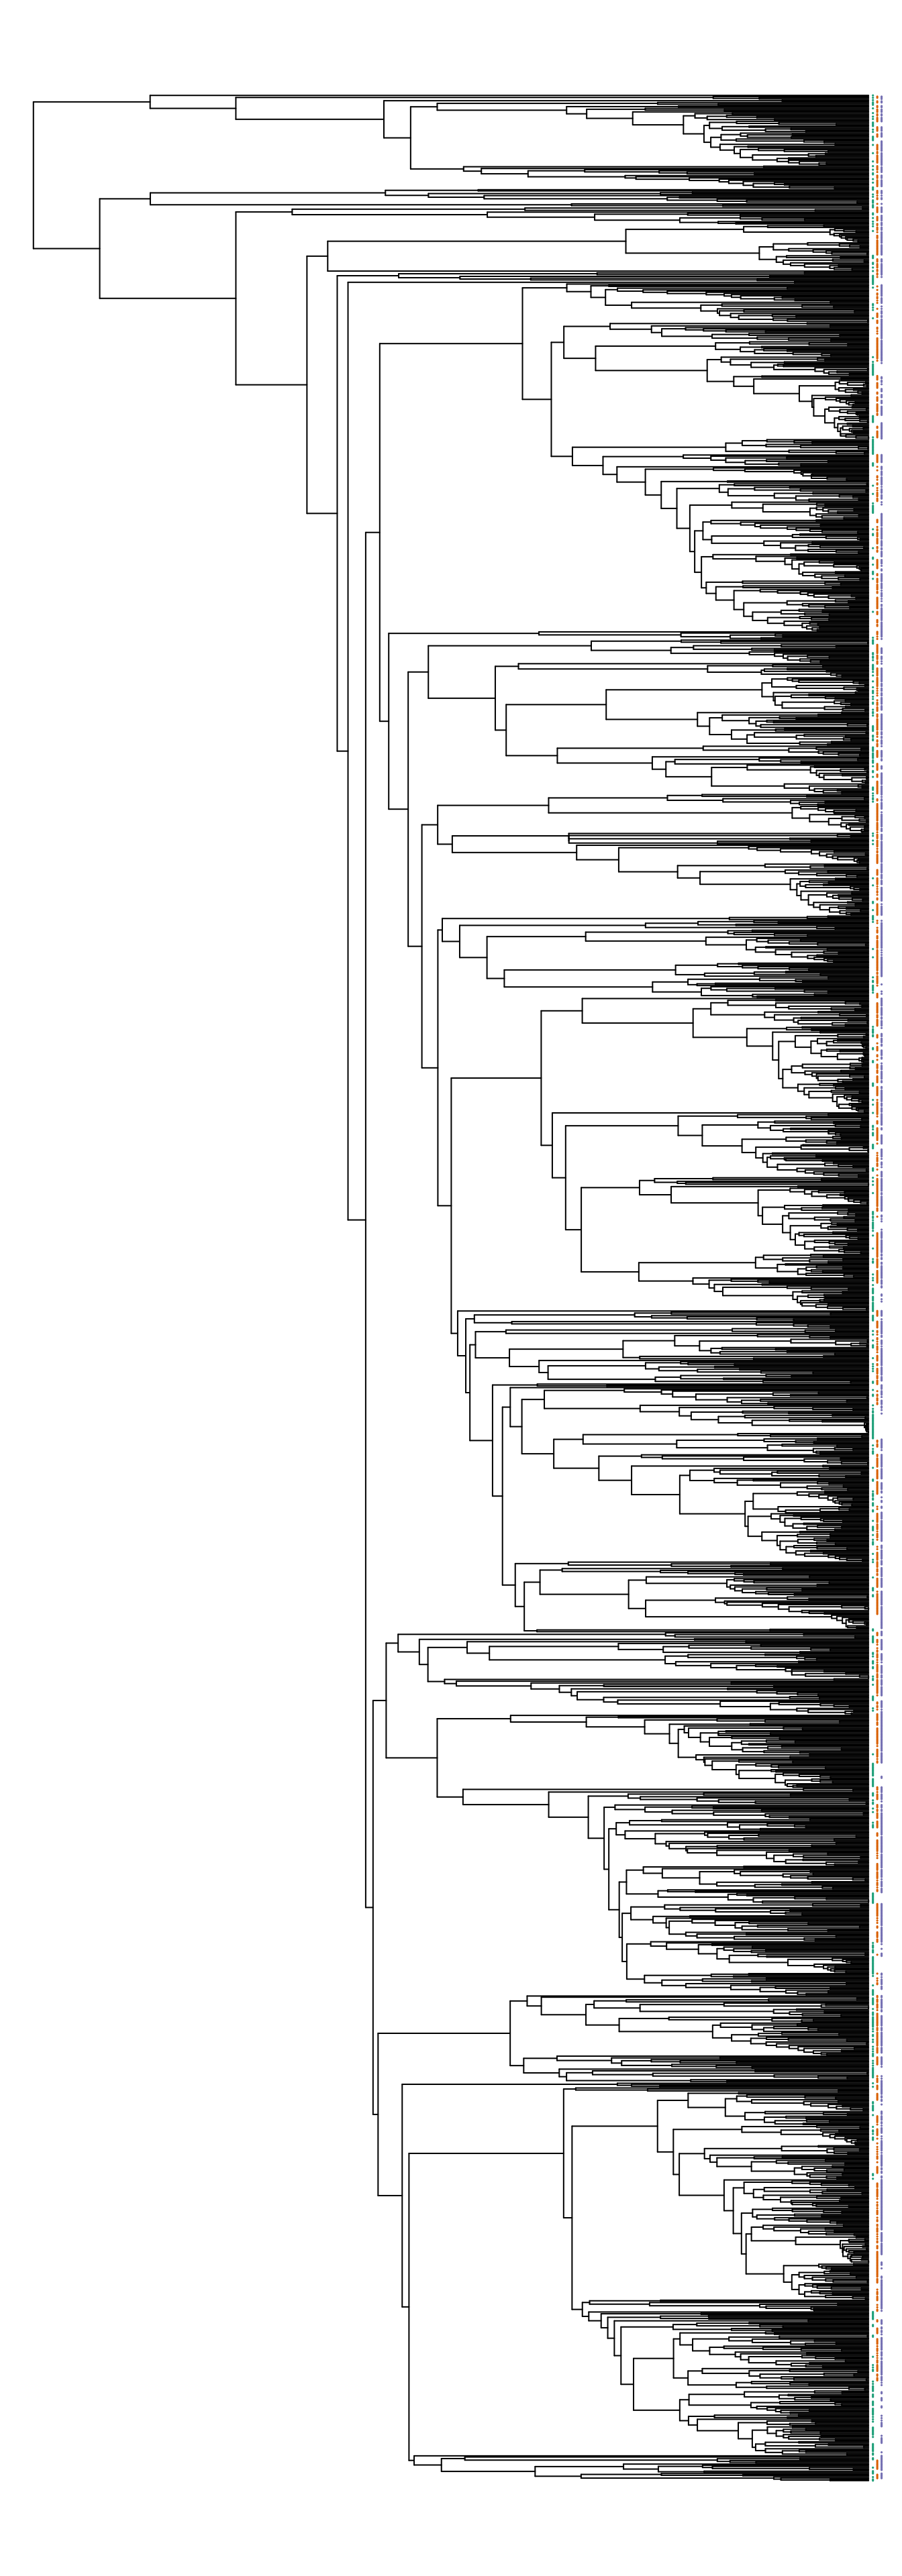
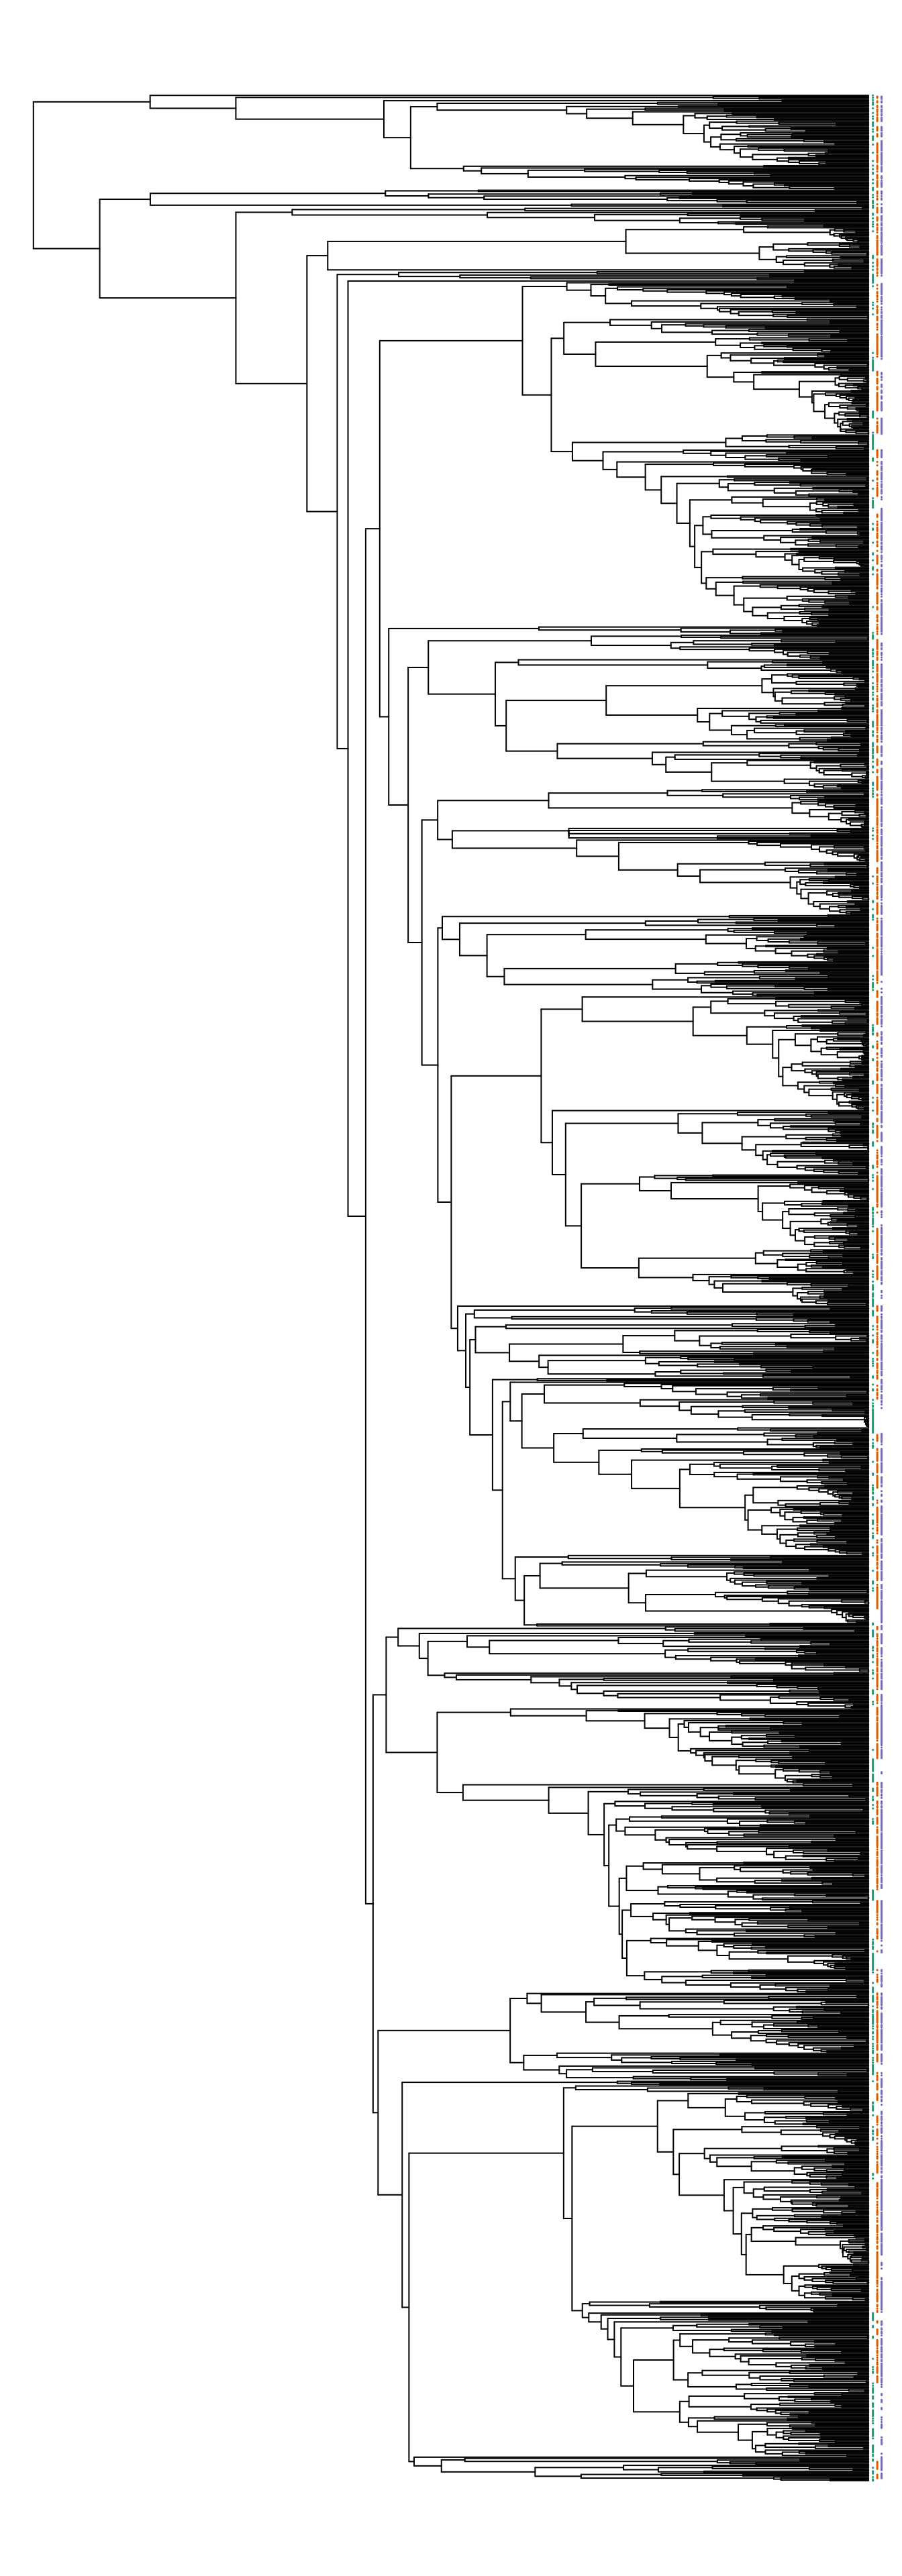
Built site for fishtree@0.3.4.9000: 18fe101

Changed region(s): [[0.3438, 0.0312, 1.0, 0.9688]]

diff --git a/articles/comparative-analysis.html b/articles/comparative-analysis.html
@@ -89,7 +89,7 @@ rather than the family in the 2013 study.</p>
 <span><span class="va">tree</span> <span class="op">&lt;-</span> <span class="fu"><a href="../reference/fishtree_phylogeny.html">fishtree_phylogeny</a></span><span class="op">(</span>rank <span class="op">=</span> <span class="st">"Tetraodontiformes"</span><span class="op">)</span></span>
 <span></span>
 <span><span class="fu"><a href="https://rdrr.io/r/graphics/plot.default.html" class="external-link">plot</a></span><span class="op">(</span><span class="va">tree</span>, show.tip.label <span class="op">=</span> <span class="cn">FALSE</span>, no.margin <span class="op">=</span> <span class="cn">TRUE</span><span class="op">)</span></span></code></pre></div>
-<p><img src="comparative-analysis_files/figure-html/get_phylo-1.png" class="r-plt" width="672"></p>
+<p><img src="comparative-analysis_files/figure-html/get_phylo-1.png" class="r-plt" alt="" width="672"></p>
 <p>Next, we need to get habitat data and associate it with our
 phylogeny. The <code>rfishbase</code> package (<a href="https://doi.org/10.1111/j.1095-8649.2012.03464.x" class="external-link">Boettiger et
 al. 2012</a>) has a variety of convenient functions to access data
@@ -154,29 +154,30 @@ data object, so we will do that as well.</p>
 <span><span class="co">#&gt;  [4] "Chelonodon_pleurospilus"               </span></span>
 <span><span class="co">#&gt;  [5] "Chilomycterus_spinosus_spinosus"       </span></span>
 <span><span class="co">#&gt;  [6] "Lagocephalus_lagocephalus_lagocephalus"</span></span>
-<span><span class="co">#&gt;  [7] "Monotrete_cochinchinensis"             </span></span>
-<span><span class="co">#&gt;  [8] "Monotrete_leiurus"                     </span></span>
-<span><span class="co">#&gt;  [9] "Ostracion_cubicus"                     </span></span>
-<span><span class="co">#&gt; [10] "Ostracion_immaculatus"                 </span></span>
-<span><span class="co">#&gt; [11] "Ostracion_solorensis"                  </span></span>
-<span><span class="co">#&gt; [12] "Paramonacanthus_filicauda"             </span></span>
-<span><span class="co">#&gt; [13] "Rhinesomus_triqueter"                  </span></span>
-<span><span class="co">#&gt; [14] "Sphoeroides_cheesemanii"               </span></span>
-<span><span class="co">#&gt; [15] "Stephanolepis_auratus"                 </span></span>
-<span><span class="co">#&gt; [16] "Stephanolepis_hispidus"                </span></span>
-<span><span class="co">#&gt; [17] "Takifugu_fasciatus"                    </span></span>
-<span><span class="co">#&gt; [18] "Tetraodon_abei"                        </span></span>
-<span><span class="co">#&gt; [19] "Tetraodon_baileyi"                     </span></span>
-<span><span class="co">#&gt; [20] "Tetraodon_biocellatus"                 </span></span>
-<span><span class="co">#&gt; [21] "Tetraodon_cambodgiensis"               </span></span>
-<span><span class="co">#&gt; [22] "Tetraodon_cutcutia"                    </span></span>
-<span><span class="co">#&gt; [23] "Tetraodon_erythrotaenia"               </span></span>
-<span><span class="co">#&gt; [24] "Tetraodon_fluviatilis"                 </span></span>
-<span><span class="co">#&gt; [25] "Tetraodon_nigroviridis"                </span></span>
-<span><span class="co">#&gt; [26] "Tetraodon_palembangensis"              </span></span>
-<span><span class="co">#&gt; [27] "Tetraodon_suvattii"                    </span></span>
-<span><span class="co">#&gt; [28] "Tetraodon_turgidus"                    </span></span>
-<span><span class="co">#&gt; [29] "Tetrosomus_fornasini"                  </span></span>
+<span><span class="co">#&gt;  [7] "Meuschenia_scaber"                     </span></span>
+<span><span class="co">#&gt;  [8] "Monotrete_cochinchinensis"             </span></span>
+<span><span class="co">#&gt;  [9] "Monotrete_leiurus"                     </span></span>
+<span><span class="co">#&gt; [10] "Ostracion_cubicus"                     </span></span>
+<span><span class="co">#&gt; [11] "Ostracion_immaculatus"                 </span></span>
+<span><span class="co">#&gt; [12] "Ostracion_solorensis"                  </span></span>
+<span><span class="co">#&gt; [13] "Paramonacanthus_filicauda"             </span></span>
+<span><span class="co">#&gt; [14] "Rhinesomus_triqueter"                  </span></span>
+<span><span class="co">#&gt; [15] "Sphoeroides_cheesemanii"               </span></span>
+<span><span class="co">#&gt; [16] "Stephanolepis_auratus"                 </span></span>
+<span><span class="co">#&gt; [17] "Stephanolepis_hispidus"                </span></span>
+<span><span class="co">#&gt; [18] "Takifugu_fasciatus"                    </span></span>
+<span><span class="co">#&gt; [19] "Tetraodon_abei"                        </span></span>
+<span><span class="co">#&gt; [20] "Tetraodon_baileyi"                     </span></span>
+<span><span class="co">#&gt; [21] "Tetraodon_biocellatus"                 </span></span>
+<span><span class="co">#&gt; [22] "Tetraodon_cambodgiensis"               </span></span>
+<span><span class="co">#&gt; [23] "Tetraodon_cutcutia"                    </span></span>
+<span><span class="co">#&gt; [24] "Tetraodon_erythrotaenia"               </span></span>
+<span><span class="co">#&gt; [25] "Tetraodon_fluviatilis"                 </span></span>
+<span><span class="co">#&gt; [26] "Tetraodon_nigroviridis"                </span></span>
+<span><span class="co">#&gt; [27] "Tetraodon_palembangensis"              </span></span>
+<span><span class="co">#&gt; [28] "Tetraodon_suvattii"                    </span></span>
+<span><span class="co">#&gt; [29] "Tetraodon_turgidus"                    </span></span>
+<span><span class="co">#&gt; [30] "Tetrosomus_fornasini"                  </span></span>
 <span><span class="co">#&gt; </span></span>
 <span><span class="co">#&gt; $data_not_tree</span></span>
 <span><span class="co">#&gt; character(0)</span></span></code></pre></div>
@@ -234,7 +235,7 @@ reef and non-reef species:</p>
 <span>     breaks <span class="op">=</span> <span class="va">breaks</span><span class="op">)</span></span>
 <span><span class="fu"><a href="https://rdrr.io/r/graphics/hist.html" class="external-link">hist</a></span><span class="op">(</span><span class="fu"><a href="https://rdrr.io/r/base/subset.html" class="external-link">subset</a></span><span class="op">(</span><span class="va">merged</span>, <span class="va">is_reef</span> <span class="op">==</span> <span class="fl">0</span><span class="op">)</span><span class="op">$</span><span class="va">dr</span>, col <span class="op">=</span> <span class="st">"purple"</span>, density <span class="op">=</span> <span class="fl">20</span>, angle <span class="op">=</span> <span class="fl">45</span>,</span>
 <span>     breaks <span class="op">=</span> <span class="va">breaks</span>, add <span class="op">=</span> <span class="cn">TRUE</span><span class="op">)</span></span></code></pre></div>
-<p><img src="comparative-analysis_files/figure-html/dr_histo-1.png" class="r-plt" width="672"></p>
+<p><img src="comparative-analysis_files/figure-html/dr_histo-1.png" class="r-plt" alt="" width="672"></p>
 <p>It seems like for the most part, the Tetraodontiformes have a low
 speciation rate, except for a subset of non-reef species that have a
 faster rate.</p>
@@ -261,7 +262,7 @@ question.</p>
 <span>          y <span class="op">=</span> <span class="fu"><a href="https://rdrr.io/r/base/rep.html" class="external-link">rep</a></span><span class="op">(</span><span class="va">obj</span><span class="op">$</span><span class="va">yy</span><span class="op">[</span><span class="va">tip</span><span class="op">]</span>, <span class="fl">2</span><span class="op">)</span>,</span>
 <span>          col <span class="op">=</span> <span class="va">tipcols</span><span class="op">[</span><span class="va">ii</span><span class="op">]</span><span class="op">)</span></span>
 <span><span class="op">}</span></span></code></pre></div>
-<p><img src="comparative-analysis_files/figure-html/plot_tree_dr-1.png" class="r-plt" width="672"></p>
+<p><img src="comparative-analysis_files/figure-html/plot_tree_dr-1.png" class="r-plt" alt="" width="672"></p>
 </div>
 <div class="section level2">
 <h2 id="running-an-analysis">Running an analysis<a class="anchor" aria-label="anchor" href="#running-an-analysis"></a>
@@ -356,10 +357,10 @@ comparison.</p>
 <span></span>
 <span><span class="fu"><a href="https://rdrr.io/r/base/data.frame.html" class="external-link">data.frame</a></span><span class="op">(</span>model <span class="op">=</span> <span class="fu"><a href="https://rdrr.io/r/base/c.html" class="external-link">c</a></span><span class="op">(</span><span class="st">"bisse_full"</span>, <span class="st">"bisse_null"</span>, <span class="st">"hisse_cid2"</span>, <span class="st">"hisse_full"</span><span class="op">)</span>, <span class="va">aicc</span>, <span class="va">lnl</span><span class="op">)</span></span>
 <span><span class="co">#&gt;        model     aicc       lnl</span></span>
-<span><span class="co">#&gt; 1 bisse_full 1829.695 -909.7075</span></span>
-<span><span class="co">#&gt; 2 bisse_null 1827.743 -909.7785</span></span>
-<span><span class="co">#&gt; 3 hisse_cid2 1816.876 -904.3447</span></span>
-<span><span class="co">#&gt; 4 hisse_full 1820.233 -903.9193</span></span></code></pre></div>
+<span><span class="co">#&gt; 1 bisse_full 1823.328 -906.5232</span></span>
+<span><span class="co">#&gt; 2 bisse_null 1821.332 -906.5726</span></span>
+<span><span class="co">#&gt; 3 hisse_cid2 1810.644 -901.2283</span></span>
+<span><span class="co">#&gt; 4 hisse_full 1813.123 -900.3632</span></span></code></pre></div>
 <p>Summarizing the results on the basis of AICc suggests that the best
 supported model is a null model, where habitat has no effect on
 speciation rate.</p>

diff --git a/articles/community-analysis.html b/articles/community-analysis.html
@@ -102,13 +102,13 @@ or overdispersed in the Atlantic, Pacific, and Indian Oceans.</p>
 <span></span>
 <span><span class="co"># Retrieve the phylogeny of only native reef species across all three oceans.</span></span>
 <span><span class="va">phy</span> <span class="op">&lt;-</span> <span class="fu"><a href="../reference/fishtree_phylogeny.html">fishtree_phylogeny</a></span><span class="op">(</span>species <span class="op">=</span> <span class="va">eco</span><span class="op">$</span><span class="va">Species</span><span class="op">)</span></span>
-<span><span class="co">#&gt; Warning: Requested 5992 but only found 3870 species.</span></span>
+<span><span class="co">#&gt; Warning: Requested 6449 but only found 4015 species.</span></span>
 <span><span class="co">#&gt; <span style="color: #00BBBB;">•</span> Scyris indica</span></span>
 <span><span class="co">#&gt; <span style="color: #00BBBB;">•</span> Lutjanus lemniscatus</span></span>
 <span><span class="co">#&gt; <span style="color: #00BBBB;">•</span> Lutjanus lunulatus</span></span>
 <span><span class="co">#&gt; <span style="color: #00BBBB;">•</span> Lutjanus timoriensis</span></span>
 <span><span class="co">#&gt; <span style="color: #00BBBB;">•</span> Macolor macularis</span></span>
-<span><span class="co">#&gt; <span style="color: #00BBBB;">•</span> ...and 2117 others</span></span></code></pre></div>
+<span><span class="co">#&gt; <span style="color: #00BBBB;">•</span> ...and 2429 others</span></span></code></pre></div>
 <p>We’ll have to clean up the data in a few ways before sending it to
 <code>picante</code> for analysis. First, we’ll need to convert our
 species-by-site data frame into a presence-absence matrix. We’ll use
@@ -138,22 +138,22 @@ abundance information.</p>
 <div class="sourceCode" id="cb6"><pre class="downlit sourceCode r">
 <code class="sourceCode R"><span><span class="fu">picante</span><span class="fu">::</span><span class="fu"><a href="https://rdrr.io/pkg/picante/man/ses.mpd.html" class="external-link">ses.mpd</a></span><span class="op">(</span><span class="va">sample_matrix</span>, <span class="va">cophen</span>, null.model <span class="op">=</span> <span class="st">"taxa.labels"</span>, runs <span class="op">=</span> <span class="fl">99</span><span class="op">)</span></span>
 <span><span class="co">#&gt;                ntaxa  mpd.obs mpd.rand.mean mpd.rand.sd mpd.obs.rank mpd.obs.z</span></span>
-<span><span class="co">#&gt; Atlantic Ocean   593 238.8793      232.2224   2.1225218          100 3.1362999</span></span>
-<span><span class="co">#&gt; Indian Ocean    1158 233.4871      231.8802   1.2074652           90 1.3308402</span></span>
-<span><span class="co">#&gt; Pacific Ocean   1436 232.0296      231.9821   0.8612623           54 0.0551219</span></span>
+<span><span class="co">#&gt; Atlantic Ocean   586 238.9500      232.3225   2.1550001          100 3.0754117</span></span>
+<span><span class="co">#&gt; Indian Ocean    1228 233.3068      231.8851   1.0681389           86 1.3310253</span></span>
+<span><span class="co">#&gt; Pacific Ocean   1431 232.0734      232.0126   0.7815354           53 0.0776838</span></span>
 <span><span class="co">#&gt;                mpd.obs.p runs</span></span>
 <span><span class="co">#&gt; Atlantic Ocean      1.00   99</span></span>
-<span><span class="co">#&gt; Indian Ocean        0.90   99</span></span>
-<span><span class="co">#&gt; Pacific Ocean       0.54   99</span></span>
+<span><span class="co">#&gt; Indian Ocean        0.86   99</span></span>
+<span><span class="co">#&gt; Pacific Ocean       0.53   99</span></span>
 <span><span class="fu">picante</span><span class="fu">::</span><span class="fu"><a href="https://rdrr.io/pkg/picante/man/ses.mntd.html" class="external-link">ses.mntd</a></span><span class="op">(</span><span class="va">sample_matrix</span>, <span class="va">cophen</span>, null.model <span class="op">=</span> <span class="st">"taxa.labels"</span>, runs <span class="op">=</span> <span class="fl">99</span><span class="op">)</span></span>
 <span><span class="co">#&gt;                ntaxa mntd.obs mntd.rand.mean mntd.rand.sd mntd.obs.rank</span></span>
-<span><span class="co">#&gt; Atlantic Ocean   593 42.01437       48.63394    1.5539615             1</span></span>
-<span><span class="co">#&gt; Indian Ocean    1158 35.24819       38.08806    0.7103801             1</span></span>
-<span><span class="co">#&gt; Pacific Ocean   1436 34.39742       35.07587    0.4469833             8</span></span>
+<span><span class="co">#&gt; Atlantic Ocean   586 42.12008       48.88476    1.4461655             1</span></span>
+<span><span class="co">#&gt; Indian Ocean    1228 34.33251       37.41040    0.6339495             1</span></span>
+<span><span class="co">#&gt; Pacific Ocean   1431 34.53339       35.15170    0.5522591            11</span></span>
 <span><span class="co">#&gt;                mntd.obs.z mntd.obs.p runs</span></span>
-<span><span class="co">#&gt; Atlantic Ocean  -4.259804       0.01   99</span></span>
-<span><span class="co">#&gt; Indian Ocean    -3.997682       0.01   99</span></span>
-<span><span class="co">#&gt; Pacific Ocean   -1.517842       0.08   99</span></span></code></pre></div>
+<span><span class="co">#&gt; Atlantic Ocean  -4.677664       0.01   99</span></span>
+<span><span class="co">#&gt; Indian Ocean    -4.855091       0.01   99</span></span>
+<span><span class="co">#&gt; Pacific Ocean   -1.119589       0.11   99</span></span></code></pre></div>
 <p>The Atlantic and Indian Oceans are overdispersed using the MPD
 metric, and all three oceans are clustered under the MNTD metric. MPD is
 thought to be more sensitive to patterns closer to the root of the tree,
@@ -175,7 +175,7 @@ basin.</p>
 <span>  <span class="va">present_idx</span> <span class="op">&lt;-</span> <span class="va">matr</span><span class="op">[</span>, <span class="va">ii</span><span class="op">]</span> <span class="op">==</span> <span class="fl">1</span></span>
 <span>  <span class="fu"><a href="https://rdrr.io/r/graphics/points.html" class="external-link">points</a></span><span class="op">(</span><span class="va">xx</span><span class="op">[</span><span class="va">present_idx</span><span class="op">]</span> <span class="op">+</span> <span class="va">ii</span>, <span class="va">yy</span><span class="op">[</span><span class="va">present_idx</span><span class="op">]</span>, col <span class="op">=</span> <span class="va">cols</span><span class="op">[</span><span class="va">ii</span><span class="op">]</span>, cex <span class="op">=</span> <span class="fl">0.1</span><span class="op">)</span></span>
 <span><span class="op">}</span></span></code></pre></div>
-<p><img src="community-analysis_files/figure-html/plot-1.png" class="r-plt" width="672"></p>
+<p><img src="community-analysis_files/figure-html/plot-1.png" class="r-plt" alt="" width="672"></p>
   </main>
 </div>
 

diff --git a/articles/comparative-analysis.md b/articles/comparative-analysis.md
@@ -101,29 +101,30 @@ nc
 #>  [4] "Chelonodon_pleurospilus"               
 #>  [5] "Chilomycterus_spinosus_spinosus"       
 #>  [6] "Lagocephalus_lagocephalus_lagocephalus"
-#>  [7] "Monotrete_cochinchinensis"             
-#>  [8] "Monotrete_leiurus"                     
-#>  [9] "Ostracion_cubicus"                     
-#> [10] "Ostracion_immaculatus"                 
-#> [11] "Ostracion_solorensis"                  
-#> [12] "Paramonacanthus_filicauda"             
-#> [13] "Rhinesomus_triqueter"                  
-#> [14] "Sphoeroides_cheesemanii"               
-#> [15] "Stephanolepis_auratus"                 
-#> [16] "Stephanolepis_hispidus"                
-#> [17] "Takifugu_fasciatus"                    
-#> [18] "Tetraodon_abei"                        
-#> [19] "Tetraodon_baileyi"                     
-#> [20] "Tetraodon_biocellatus"                 
-#> [21] "Tetraodon_cambodgiensis"               
-#> [22] "Tetraodon_cutcutia"                    
-#> [23] "Tetraodon_erythrotaenia"               
-#> [24] "Tetraodon_fluviatilis"                 
-#> [25] "Tetraodon_nigroviridis"                
-#> [26] "Tetraodon_palembangensis"              
-#> [27] "Tetraodon_suvattii"                    
-#> [28] "Tetraodon_turgidus"                    
-#> [29] "Tetrosomus_fornasini"                  
+#>  [7] "Meuschenia_scaber"                     
+#>  [8] "Monotrete_cochinchinensis"             
+#>  [9] "Monotrete_leiurus"                     
+#> [10] "Ostracion_cubicus"                     
+#> [11] "Ostracion_immaculatus"                 
+#> [12] "Ostracion_solorensis"                  
+#> [13] "Paramonacanthus_filicauda"             
+#> [14] "Rhinesomus_triqueter"                  
+#> [15] "Sphoeroides_cheesemanii"               
+#> [16] "Stephanolepis_auratus"                 
+#> [17] "Stephanolepis_hispidus"                
+#> [18] "Takifugu_fasciatus"                    
+#> [19] "Tetraodon_abei"                        
+#> [20] "Tetraodon_baileyi"                     
+#> [21] "Tetraodon_biocellatus"                 
+#> [22] "Tetraodon_cambodgiensis"               
+#> [23] "Tetraodon_cutcutia"                    
+#> [24] "Tetraodon_erythrotaenia"               
+#> [25] "Tetraodon_fluviatilis"                 
+#> [26] "Tetraodon_nigroviridis"                
+#> [27] "Tetraodon_palembangensis"              
+#> [28] "Tetraodon_suvattii"                    
+#> [29] "Tetraodon_turgidus"                    
+#> [30] "Tetrosomus_fornasini"                  
 #> 
 #> $data_not_tree
 #> character(0)
@@ -333,10 +334,10 @@ lnl <- sapply(results, `[[`, "loglik")
 
 data.frame(model = c("bisse_full", "bisse_null", "hisse_cid2", "hisse_full"), aicc, lnl)
 #>        model     aicc       lnl
-#> 1 bisse_full 1829.695 -909.7075
-#> 2 bisse_null 1827.743 -909.7785
-#> 3 hisse_cid2 1816.876 -904.3447
-#> 4 hisse_full 1820.233 -903.9193
+#> 1 bisse_full 1823.328 -906.5232
+#> 2 bisse_null 1821.332 -906.5726
+#> 3 hisse_cid2 1810.644 -901.2283
+#> 4 hisse_full 1813.123 -900.3632
 ```
 
 Summarizing the results on the basis of AICc suggests that the best

diff --git a/articles/community-analysis.md b/articles/community-analysis.md
@@ -38,13 +38,13 @@ eco <- eco[valid_idx, c("Species", "EcosystemName")]
 
 # Retrieve the phylogeny of only native reef species across all three oceans.
 phy <- fishtree_phylogeny(species = eco$Species)
-#> Warning: Requested 5992 but only found 3870 species.
+#> Warning: Requested 6449 but only found 4015 species.
 #> • Scyris indica
 #> • Lutjanus lemniscatus
 #> • Lutjanus lunulatus
 #> • Lutjanus timoriensis
 #> • Macolor macularis
-#> • ...and 2117 others
+#> • ...and 2429 others
 ```
 
 We’ll have to clean up the data in a few ways before sending it to
@@ -87,22 +87,22 @@ models if your datasets have e.g., abundance information.
 ``` r
 picante::ses.mpd(sample_matrix, cophen, null.model = "taxa.labels", runs = 99)
 #>                ntaxa  mpd.obs mpd.rand.mean mpd.rand.sd mpd.obs.rank mpd.obs.z
-#> Atlantic Ocean   593 238.8793      232.2224   2.1225218          100 3.1362999
-#> Indian Ocean    1158 233.4871      231.8802   1.2074652           90 1.3308402
-#> Pacific Ocean   1436 232.0296      231.9821   0.8612623           54 0.0551219
+#> Atlantic Ocean   586 238.9500      232.3225   2.1550001          100 3.0754117
+#> Indian Ocean    1228 233.3068      231.8851   1.0681389           86 1.3310253
+#> Pacific Ocean   1431 232.0734      232.0126   0.7815354           53 0.0776838
 #>                mpd.obs.p runs
 #> Atlantic Ocean      1.00   99
-#> Indian Ocean        0.90   99
-#> Pacific Ocean       0.54   99
+#> Indian Ocean        0.86   99
+#> Pacific Ocean       0.53   99
 picante::ses.mntd(sample_matrix, cophen, null.model = "taxa.labels", runs = 99)
 #>                ntaxa mntd.obs mntd.rand.mean mntd.rand.sd mntd.obs.rank
-#> Atlantic Ocean   593 42.01437       48.63394    1.5539615             1
-#> Indian Ocean    1158 35.24819       38.08806    0.7103801             1
-#> Pacific Ocean   1436 34.39742       35.07587    0.4469833             8
+#> Atlantic Ocean   586 42.12008       48.88476    1.4461655             1
+#> Indian Ocean    1228 34.33251       37.41040    0.6339495             1
+#> Pacific Ocean   1431 34.53339       35.15170    0.5522591            11
 #>                mntd.obs.z mntd.obs.p runs
-#> Atlantic Ocean  -4.259804       0.01   99
-#> Indian Ocean    -3.997682       0.01   99
-#> Pacific Ocean   -1.517842       0.08   99
+#> Atlantic Ocean  -4.677664       0.01   99
+#> Indian Ocean    -4.855091       0.01   99
+#> Pacific Ocean   -1.119589       0.11   99
 ```
 
 The Atlantic and Indian Oceans are overdispersed using the MPD metric,